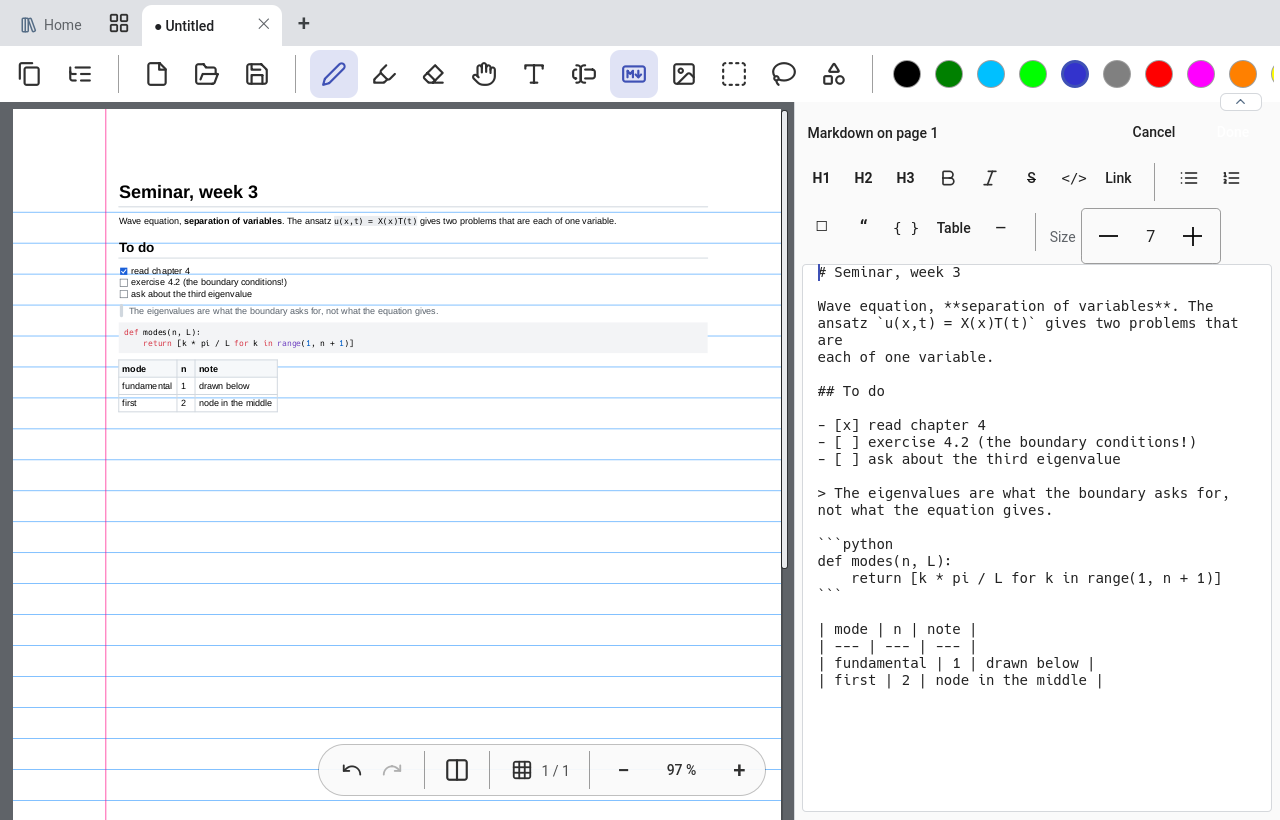
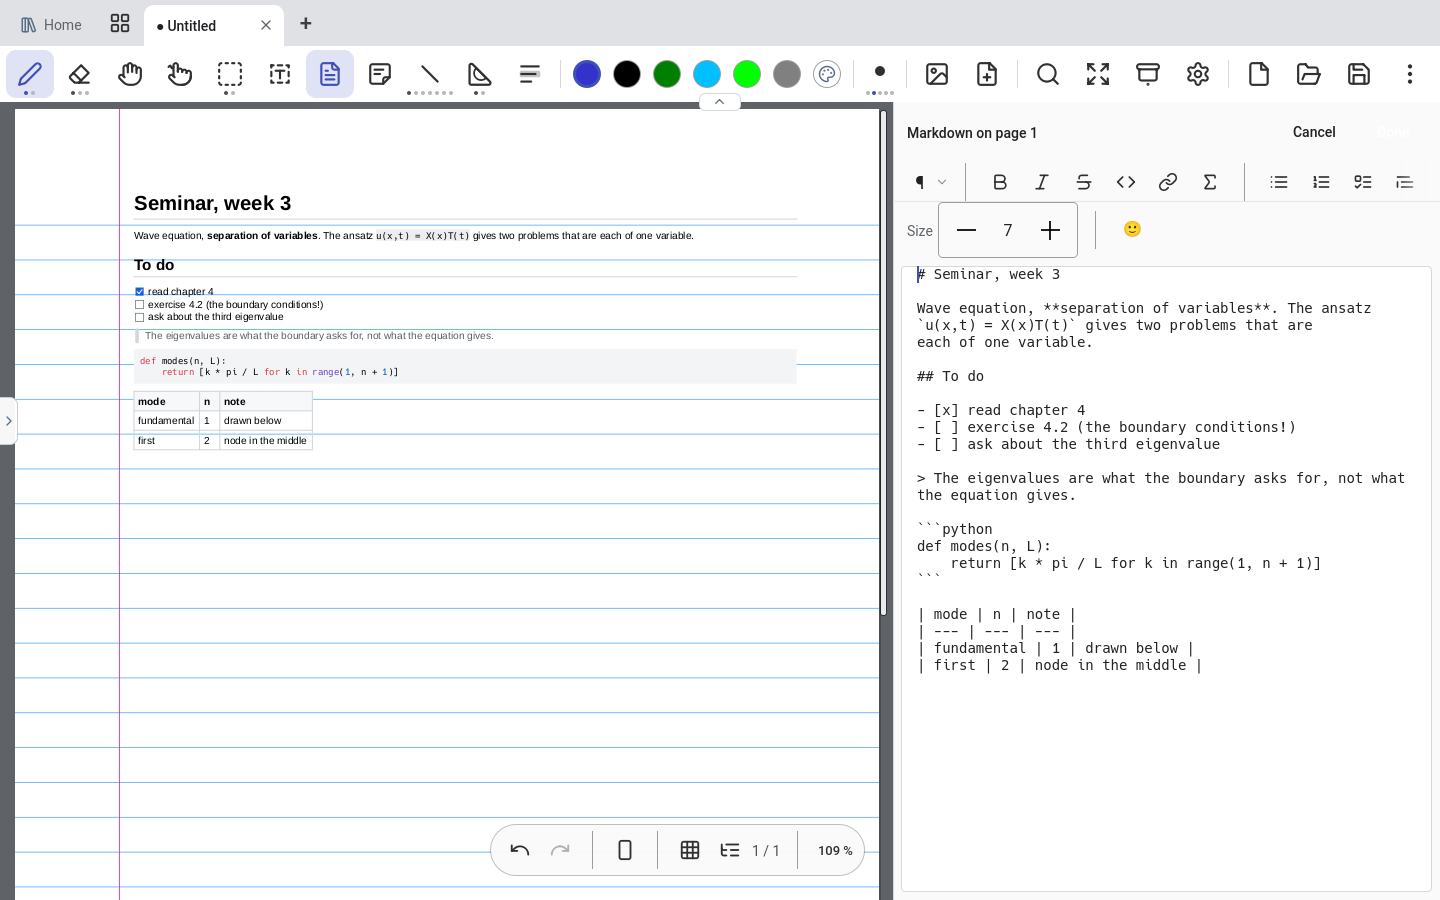
README: the adaptive layout on desktop, tablet and phone; what the fork adds, concisely; a short comparison with Xournal++, GoodNotes and Drawboard PDF
The pictures come from the off-screen shot tests (XQT_SHOTS; the page of notes now also at 960x1392 and 412x915,
drawn in the page's coordinates); adaptive.png puts the three side by side.

Claude-Session: https://claude.ai/code/session_013GyFzF9uEfHvZu7BLw4yi3

diff --git a/qt/tests/ui/MainWindowTest.cpp b/qt/tests/ui/MainWindowTest.cpp
@@ -980,7 +980,7 @@ TEST_F(MainWindowTest, pageGridDragAndDropMovesSelectedPages) {
 }
 
 // XQT_SHOTS=<folder>: writes the pictures for the README (off-screen, so no display is needed).
-//   XQT_SHOTS=/tmp/shots ./xqt-ui-tests --gtest_filter='*shot*'
+//   XQT_SHOTS=/tmp/shots ./xqt-ui-tests --gtest_filter='*shot*:ShotOfTheCanvas.*'
 namespace {
 bool wantShots() { return qEnvironmentVariableIsSet("XQT_SHOTS"); }
 
@@ -1015,45 +1015,75 @@ void drawCurve(QQuickWindow* window, QPoint origin, int width, int height, doubl
 }
 }  // namespace
 
-// A page of notes: Markdown written on the page, a curve drawn by hand, the pages beside it.
-TEST_F(MainWindowTest, shotOfTheCanvas) {
+// A page of notes: Markdown written on the page, a curve drawn by hand, the pages beside it - on a desktop, an upright
+// Surface (two rows of tools) and a phone (the app bar and the dock): the README's picture of the adaptive layout.
+namespace {
+class ShotOfTheCanvas: public MainWindowTest {
+protected:
+    void canvasShot(int w, int h, const char* name) {
+        window->resize(w, h);
+        restPointer(window);  // (no tool tip of a hovered button in the picture)
+        wait(200);
+        ASSERT_TRUE(controller->openPath(fixturePath(u8"load/pages.xopp")));
+        if (w >= 1280) {
+            QMetaObject::invokeMethod(window, "showSidebar", Q_ARG(QVariant, true));  // (a binding: shown by its button)
+        }
+        controller->goToPage(7);  // squared paper
+        wait(600);
+
+        // The note where the page is seen, and the curve under it
+        auto* panel = find<QQuickItem>("markdownPanel");
+        ASSERT_NE(panel, nullptr);
+        QMetaObject::invokeMethod(panel, "openBox", Q_ARG(QVariant, 7), Q_ARG(QVariant, 60.0), Q_ARG(QVariant, 300.0));
+        wait(200);
+        find<QQuickItem>("markdownArea")
+                ->setProperty("text", QStringLiteral("## Damped oscillation\n\n"
+                                                     "Measured on the shaker at 12 Hz. The envelope follows `exp(-t/tau)`, "
+                                                     "with tau about 0.8 s.\n\n"
+                                                     "- [x] set up the sensor\n- [ ] repeat it with the heavier mass\n"));
+        wait(500);
+        QMetaObject::invokeMethod(panel, "close", Q_ARG(QVariant, true));
+        wait(1200);  // (closing puts the zoom back to what it was before it opened)
+        controller->goToPage(7);
+        wait(600);
+
+        auto* canvas = findItem("canvas");
+        ASSERT_NE(canvas, nullptr);
+        // (in the page's points: above the note, the same on every size)
+        xqt::CanvasView* view = controller->tabManager().currentView();
+        const double zoom = view->getViewController().zoom();
+        const QPointF page = view->pageViewRect(7).topLeft();
+        auto onPage = [&](double x, double y) { return canvas->mapToScene(page + QPointF(x, y) * zoom).toPoint(); };
+        const QPoint origin = onPage(190, 190);
+        const int width = static_cast<int>(320 * zoom);
+        drawCurve(window, origin, width, static_cast<int>(110 * zoom), 2.5);
+        QTest::mousePress(window, Qt::LeftButton, Qt::NoModifier, onPage(170, 190));  // the axis
+        QTest::mouseMove(window, onPage(530, 190));
+        QTest::mouseRelease(window, Qt::LeftButton, Qt::NoModifier, onPage(530, 190));
+        restPointer(window);
+        wait(900);  // (the thumbnails of the pages follow)
+        saveShot(window, name);
+    }
+};
+}  // namespace
+
+TEST_F(ShotOfTheCanvas, onADesktop) {
     if (!wantShots()) {
         GTEST_SKIP() << "set XQT_SHOTS";
     }
-    window->resize(1280, 820);
-    restPointer(window);  // (no tool tip of a hovered button in the picture)
-    wait(200);
-    ASSERT_TRUE(controller->openPath(fixturePath(u8"load/pages.xopp")));
-    QMetaObject::invokeMethod(window, "showSidebar", Q_ARG(QVariant, true));  // (a binding: shown by its button)
-    controller->goToPage(7);  // squared paper
-    wait(600);
-
-    // The note where the page is seen, and the curve under it
-    auto* panel = find<QQuickItem>("markdownPanel");
-    ASSERT_NE(panel, nullptr);
-    QMetaObject::invokeMethod(panel, "openBox", Q_ARG(QVariant, 7), Q_ARG(QVariant, 60.0), Q_ARG(QVariant, 300.0));
-    wait(200);
-    find<QQuickItem>("markdownArea")
-            ->setProperty("text", QStringLiteral("## Damped oscillation\n\n"
-                                                 "Measured on the shaker at 12 Hz. The envelope follows `exp(-t/tau)`, "
-                                                 "with tau about 0.8 s.\n\n"
-                                                 "- [x] set up the sensor\n- [ ] repeat it with the heavier mass\n"));
-    wait(500);
-    QMetaObject::invokeMethod(panel, "close", Q_ARG(QVariant, true));
-    wait(1200);  // (closing puts the zoom back to what it was before it opened)
-    controller->goToPage(7);
-    wait(600);
-
-    auto* canvas = findItem("canvas");
-    ASSERT_NE(canvas, nullptr);
-    const QPoint origin = canvas->mapToScene(QPointF(canvas->width() * 0.32, canvas->height() * 0.42)).toPoint();
-    drawCurve(window, origin, 430, 150, 2.5);
-    QTest::mousePress(window, Qt::LeftButton, Qt::NoModifier, origin - QPoint(30, 0));  // the axis
-    QTest::mouseMove(window, origin + QPoint(460, 0));
-    QTest::mouseRelease(window, Qt::LeftButton, Qt::NoModifier, origin + QPoint(460, 0));
-    restPointer(window);
-    wait(900);  // (the thumbnails of the pages follow)
-    saveShot(window, "canvas");
+    canvasShot(1440, 900, "canvas");
+}
+TEST_F(ShotOfTheCanvas, onAnUprightTablet) {
+    if (!wantShots()) {
+        GTEST_SKIP() << "set XQT_SHOTS";
+    }
+    canvasShot(960, 1392, "canvas-tablet");
+}
+TEST_F(ShotOfTheCanvas, onAPhone) {
+    if (!wantShots()) {
+        GTEST_SKIP() << "set XQT_SHOTS";
+    }
+    canvasShot(412, 915, "canvas-phone");
 }
 
 // Markdown written on a page, with its source beside it.
@@ -1061,7 +1091,7 @@ TEST_F(MainWindowTest, shotOfMarkdown) {
     if (!wantShots()) {
         GTEST_SKIP() << "set XQT_SHOTS";
     }
-    window->resize(1280, 820);
+    window->resize(1440, 900);
     restPointer(window);  // (no tool tip of a hovered button in the picture)
     wait(200);
     controller->newDocument();
@@ -1098,7 +1128,7 @@ TEST_F(MainWindowTest, shotOfThePageGrid) {
     if (!wantShots()) {
         GTEST_SKIP() << "set XQT_SHOTS";
     }
-    window->resize(1280, 820);
+    window->resize(1440, 900);
     restPointer(window);  // (no tool tip of a hovered button in the picture)
     wait(200);
     ASSERT_TRUE(controller->openPath(fixturePath(u8"load/pages.xopp")));
@@ -1114,7 +1144,7 @@ TEST_F(MainWindowTest, shotOfTheOverview) {
     if (!wantShots()) {
         GTEST_SKIP() << "set XQT_SHOTS";
     }
-    window->resize(1280, 820);
+    window->resize(1440, 900);
     restPointer(window);  // (no tool tip of a hovered button in the picture)
     wait(200);
     ASSERT_TRUE(controller->openPath(fixturePath(u8"load/pages.xopp")));

diff --git a/README.md b/README.md
@@ -2,86 +2,67 @@
 
 # xournal-qt
 
-**Handwritten notes and PDF annotation on a pen tablet — a Qt 6 fork of [Xournal++](https://github.com/xournalpp/xournalpp).**
-Same documents, same proven core, a new interface built for a pen in one hand and a finger in the other.
+**Handwritten notes, PDF annotation and Markdown in one app — from a desktop to a pen tablet to a phone.**
+A Qt 6 fork of [Xournal++](https://github.com/xournalpp/xournalpp): same file format, same drawing core, a new
+interface.
 
 <br clear="left">
 
-<img src="qt/docs/screenshots/canvas.png" width="900" alt="A page of notes: a curve drawn by hand and a Markdown note under it, the pages of the document beside them">
+<img src="qt/docs/screenshots/adaptive.png" width="100%" alt="The same page of notes on a desktop (with the page sidebar), an upright tablet (two rows of tools) and a phone (a top bar and a tool dock)">
 
-Its files *are* Xournal++ files. A document written here opens in Xournal++, and one written there opens here: the
-document model, the `.xopp` file format, the cairo rendering, the undo stack and the tools are upstream's, unchanged.
-What is new is everything around them — see [FORK.md](FORK.md) for how the two live in one tree.
+A `.xopp` written here opens in Xournal++ and the other way round: the document model, file format, rendering, undo
+and tools are upstream's. What is new is everything around them ([FORK.md](FORK.md) explains how the two share one
+tree).
 
 ## What it adds to Xournal++
 
-| | |
-| --- | --- |
-| **Tabs and an overview** | Several documents at once, an overview of them all, and a tab can be dragged into a window of its own. |
-| **A library** | Your folders of documents with previews, read where you left off, and title pages you choose. |
-| **Search on three levels** | In the page you are on, in every open document at once, or in the whole library — the text of documents you have not opened for months included. |
-| **Markdown on the page** | Write Markdown on a page and see it formatted as you type. It flows onto the next pages, its headings become chapters, and it is stored as ordinary Xournal++ text. |
-| **Pen, finger and mouse told apart** | The pen writes while your hand rests on the screen, a finger scrolls and zooms, the side buttons erase. Tuned on a convertible under Wayland. |
-| **Pages at a glance** | A page sidebar and a zoomable grid of all pages, with copy, move, insert, delete and drag and drop. |
-| **Made to keep up** | Pages are rendered ahead of where you read and kept in memory (you set the limit), every page has a preview drawn in the background, and previews are stored for the next opening. Flying through a 500-page PDF shows pages that turn sharp where you stop, not blanks. |
-| **Built for touch** | Big handles, a movable tool pill in full screen, popups where your finger is, gestures for the overviews. |
+- **One interface for every screen.** It lays itself out for a wide desktop, an upright 2-in-1 or Surface (two rows
+  of tools, the A4 page keeps its width), a foldable, and a phone (a top bar, a tool dock within thumb reach, sheets
+  instead of menus). Pen, finger and mouse are told apart: the pen writes with your hand on the screen, a finger
+  scrolls and zooms.
+- **Tabs, an overview and a reference view.** Several documents at once, a grid of all of them, and a second document
+  (or the same one) beside or above the one you write in.
+- **A library that is just folders.** Point it at a folder: previews, favourites, page bookmarks, reading positions.
+  Nothing is imported; sync the folder with whatever you already use.
+- **Search on three levels.** This document, all open documents, or the whole library, including the text of PDFs you
+  have not opened in months. Hits are shown on the pages, not as a list of file names; fuzzy search if you want it.
+- **Markdown on the page.** Write Markdown on a page (or a sticky note) and see it formatted as you type: formulas
+  (`$…$`, no LaTeX installation needed), pictures, tables, code, check lists, with a formatting bar for those who do
+  not know the syntax. Plain `.md` files open as documents of their own.
+- **PDFs that stay PDFs.** Notes on a PDF can be saved into the PDF itself, which every viewer shows, with the
+  editable notes inside it. Saving appends to the file instead of rewriting it. Space for notes can be added beside
+  slides.
+- **Sticky notes, bookmarks, citations.** Notes that hold ink, text and pictures and can cover an answer for
+  self-testing; bookmarks that other PDF viewers show; Scholar and arXiv lookups for a selected reference (network
+  use is opt-in, and every address is shown first).
+- **Fast on big documents.** Pages are drawn ahead of where you read, within a memory limit you set; a 500-page PDF
+  scrolls without blank pages, and an A0 poster zooms without running out of memory.
 
-Not there yet: audio recording, the plugin console and the LaTeX tool of Xournal++, and Windows and macOS builds
-(the fork is Linux only so far).
+Not there yet: searching handwriting, audio recording, and Xournal++'s plugins and LaTeX tool.
 
-## What that makes possible
+<img src="qt/docs/screenshots/markdown.png" width="100%" alt="Markdown written on a page, formatted, with its source and the formatting bar beside it">
 
-- **Follow a lecture on one device.** The slides as a PDF in one tab, your own notes in another, both in the library.
-  Write on the slides, jump between the two with `Ctrl+Tab`, and when you look for that one word weeks later, the
-  library search finds it in a document you have not opened since.
-- **Keep a lab or reading notebook that is still text.** Type the parts that are text as Markdown — headings, task
-  lists, tables, code — and draw the rest by hand on the same page. The headings become the table of contents.
-- **Work through a thick PDF.** Open it, scroll or fling; the pages are already rendered. The page grid shows
-  everything at once, the search marks its hits on the page pictures, and the document opens where you left it.
-- **Keep your notes where your files are.** No import, no hidden database: a library is a folder.
+## Compared with other note apps
 
-<img src="qt/docs/screenshots/markdown.png" width="900" alt="Markdown written beside the page and shown formatted on it">
+|  | xournal-qt | Xournal++ | GoodNotes | Drawboard PDF |
+| --- | --- | --- | --- | --- |
+| Platforms | Linux, Windows, macOS, Android; iOS planned | Linux, Windows, macOS | iPad, iPhone, Mac; Windows and Android versions | Windows |
+| Price, license | free, GPL | free, GPL | free tier, then paid | free tier, then subscription |
+| Where your notes live | files in your folders (`.xopp`, PDF, `.md`) | files | the app's own library | PDF files |
+| Sync | any folder sync (Nextcloud, Syncthing, OneDrive, …) | any | iCloud | cloud storage of your choice |
+| Adapts to phone and tablet | yes | desktop layout | yes | tablet and desktop |
+| Typed text | live Markdown with formulas, on the page | text boxes, LaTeX tool | text boxes | text annotations |
+| Search | all your documents, PDF text included | the open document | all notebooks, **handwriting too** | PDF text |
 
-## A library is just a folder
+Where others are ahead: GoodNotes searches handwriting and is the more polished iPad app; Drawboard PDF has more PDF
+markup tools (stamps, measurements).
 
-Point it at a folder and that folder is a library. The documents in it are the files you already have; subfolders are
-its shelves. Nothing is imported, copied or hidden away, and the folder stays yours to move, sync or back up with
-whatever you already use.
+## Getting it
 
-- The libraries it offers by default live in **`~/Documents/Xournal_Libraries/`** (`Default` is the one it starts
-  with). Your Downloads folder is offered as a quick library too.
-- **Any folder can be opened as a library** — from the home screen, from the command line
-  (`xournal-qt ~/some/folder`), or from Dolphin's "Open as Xournal Qt library".
-- Each library keeps its own notes about itself in **`.xournal_library/`** inside it: the search index, the page
-  previews, and which page of a document is its title page and where you stopped reading. It is a cache, not your
-  data — delete it and it is built again the next time, and the documents are untouched.
-
-## Search that reaches further than the page
-
-Xournal++ searches the document you are in. Here the same search goes three ways, and every hit is shown where it
-stands on the page, not as a list of file names.
-
-- **In this document** (`Ctrl+F`) — the PDF's text, text you typed, and Markdown boxes (there the hit is marked where
-  the text is *drawn*, not where it sits in the source). Hits are marked on the page, `Enter` and `Shift+Enter` step
-  through them, and the page sidebar and the page grid mark them on the pictures of the pages with a count.
-- **In every open document** (`Ctrl+Shift+F`) — the overview searches all tabs at once and puts the pages that have
-  hits under each document; tapping one opens that document at that page. It reads the documents as they are at this
-  moment, so unsaved changes count too (a 179-page PDF takes about 0.1 s).
-- **In the whole library** (`Ctrl+Alt+F`) — every document in the folder, opened or not. Each library keeps an index
-  of its documents' text in its `.xournal_library/` folder, built and kept up to date in the background: the text of
-  a PDF is read once, a renamed or moved document keeps what was read, and annotating one does not make its PDF text
-  be read again. Results show the pages with hits, drawn with the hits marked on them, and a "Names" button narrows
-  the search to the documents' names.
-
-Short words are searched when you press `Enter`, not while typing: one letter in a 300-page PDF is hundreds of
-thousands of hits, and nobody meant to ask for those.
-
-<img src="qt/docs/screenshots/overview.png" width="900" alt="The overview of the open documents with a search over all of them, showing the pages that have hits">
-
-## Trying it
-
-Linux, Qt 6.5 or newer. Packages of a release and which one fits which system:
-[qt/docs/releasing.md](qt/docs/releasing.md). From source:
+Releases have packages for Linux (`.deb` for KDE neon / Ubuntu 22.04 and Debian 13 / Ubuntu 25.04, an AppImage),
+Windows (a portable zip), Android 9 and newer (an APK) and macOS 15 on Apple Silicon (an unsigned `.dmg`):
+[releases](https://github.com/R-Fehler/xournal-qt/releases), and [qt/docs/releasing.md](qt/docs/releasing.md) for
+which one fits. From source (Linux, Qt 6.5 or newer):
 
 ```sh
 qt/scripts/linux-deps.sh                                          # Debian / Ubuntu: what the build needs
@@ -90,10 +71,11 @@ cmake --build build-qt
 ./build-qt/xournal-qt
 ```
 
-More: [what it can do and where it is going](qt/docs/ROADMAP.md) · [Markdown boxes](qt/docs/markdown-boxes.md) ·
-[the library](qt/docs/library.md) · [text mode](qt/docs/text-mode.md) · [how the fork is kept](FORK.md)
+<img src="qt/docs/screenshots/overview.png" width="100%" alt="The overview of the open documents, searched: the pages with hits under each document">
 
-<img src="qt/docs/screenshots/page-grid.png" width="900" alt="All pages of a document as a grid">
+More: [what it can do and where it is going](qt/docs/ROADMAP.md) · [the adaptive layout](qt/docs/adaptive-layout.md)
+· [Markdown](qt/docs/md-editor.md) · [the library](qt/docs/library.md) · [Android](qt/docs/android.md) ·
+[macOS](qt/docs/macos.md) · [how the fork is kept](FORK.md)
 
 ---
 
